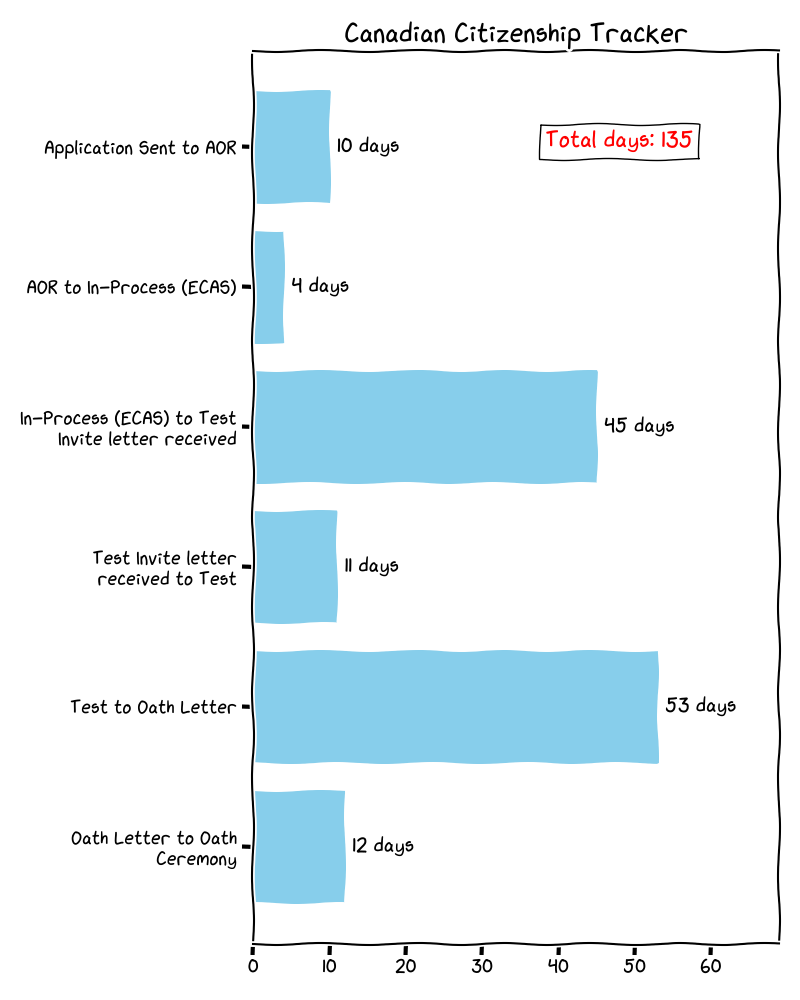
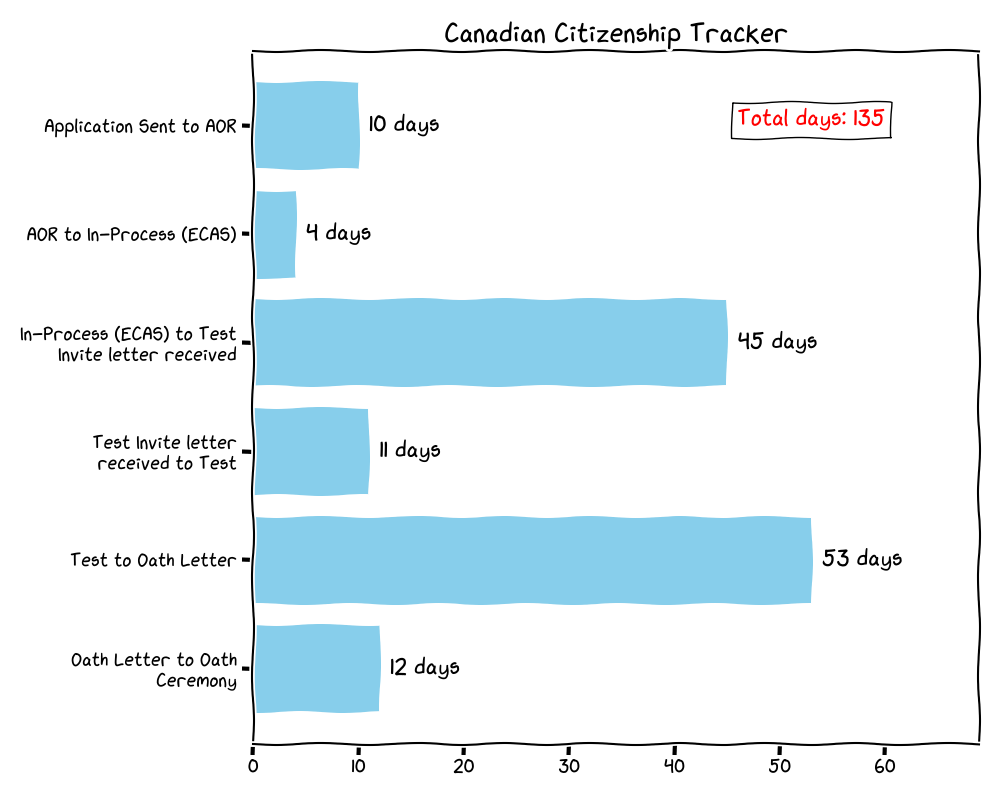
citizenship tracker: made changes to plot

diff --git a/citizenship/main.py b/citizenship/main.py
@@ -161,17 +161,17 @@ def plot_analytics(df):
     # Create the plot
     plt.xkcd(scale=1, length=100, randomness=2)  # Apply xkcd style
 
-    fig, ax = plt.subplots(figsize=(8, 10))
+    fig, ax = plt.subplots(figsize=(10, 8))
     bars = ax.barh(df["Processing Step"], df["Average Time (Days)"], color='skyblue')
 
     # Add text to bars
     for bar in bars:
         width = bar.get_width()
         ax.text(width + 1, bar.get_y() + bar.get_height() / 2, f"{int(width)} days",
-                va='center', ha='left', fontsize=15)
+                va='center', ha='left', fontsize=17)
 
     # Add "Total days" text in the top right
-    ax.text(max(df["Average Time (Days)"]) - 5, 0,
+    ax.text(max(df["Average Time (Days)"]), 0,
             f"Total days: {int(total_days)}", fontsize=17, ha='center', color='red',
             bbox=dict(facecolor='white'))
 

diff --git a/README.md b/README.md
@@ -1,9 +1,10 @@
-
 # Canadian Citizenship Tracker
 
 This tracker displays the average time for each processing step in the Canadian citizenship process. The graph below is updated with the latest data.
 
-![Canadian Citizenship Tracker](citizenship/citizenship_tracker.png)
+<p align="center">
+  <img src="citizenship/citizenship_tracker.png" alt="Canadian Citizenship Tracker" style="width: 75%; max-width: 800px;">
+</p>
 
 ## Total Days
 The total processing time from "Application Sent" to "Oath Ceremony" is displayed at the top-right corner of the graph.
